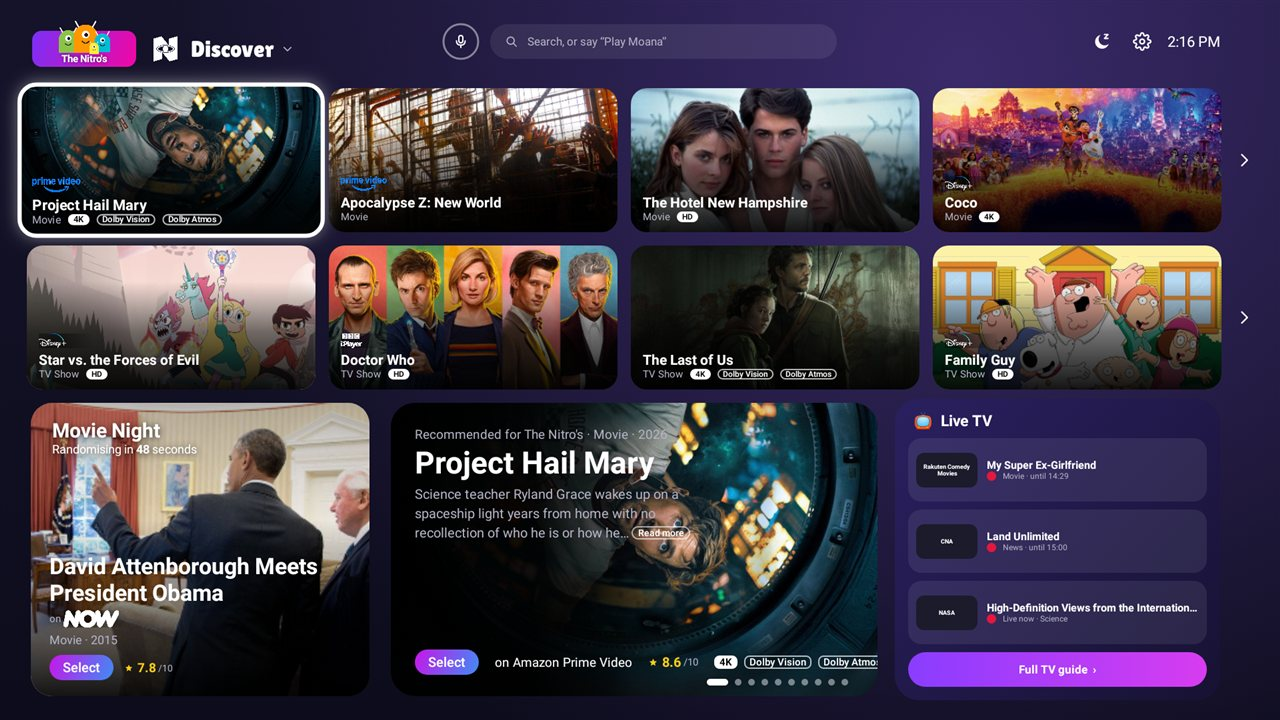
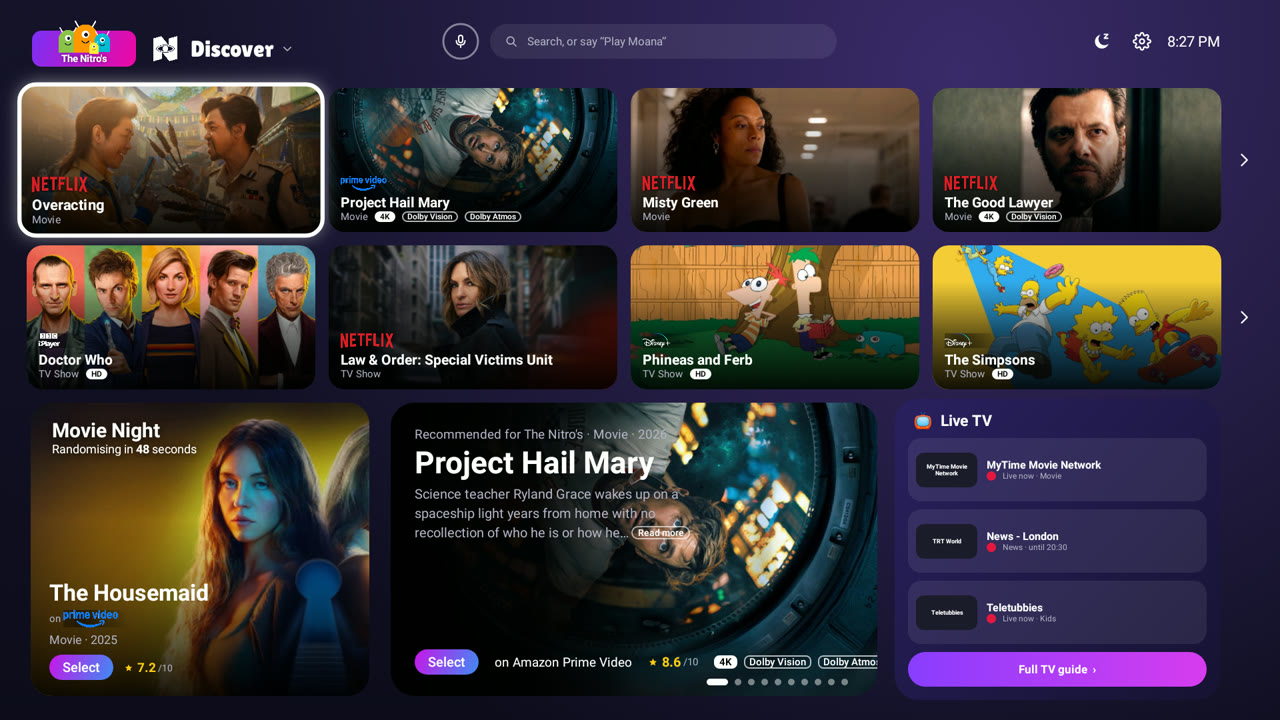
Website: new Discover, Details and Live guide screenshots, wording, remove unused pictures

diff --git a/index.html b/index.html
@@ -242,7 +242,7 @@ footer{background:#040406;border-top:1px solid var(--line);margin-top:120px;font
 <section class="sec how"><span class="lbl">How it works</span><h2 class="h">Up and running in three steps.</h2><div class="flow"><article class="st"><b class="big">01</b><div class="vis v1"><img src="services/netflix.png" alt="" loading="lazy"><img src="services/prime.png" alt="" loading="lazy"><img src="services/disney.png" alt="" loading="lazy"><img src="services/iplayer.png" alt="" loading="lazy"><img src="services/itvx.png" alt="" loading="lazy"><img src="services/now.png" alt="" loading="lazy"><span class="tick">✓</span></div><h3>Pick your services</h3><p>Tell it which ones you pay for. Takes a minute.</p></article><i class="arr" aria-hidden="true"></i><article class="st"><b class="big">02</b><div class="vis v2"><img src="tv-home.jpg" alt="" loading="lazy"></div><h3>Browse in one place</h3><p>Films and shows from all of them, side by side.</p></article><i class="arr" aria-hidden="true"></i><article class="st"><b class="big">03</b><div class="vis v3"><span class="pp">▶ Select</span><small>Opens in Netflix</small></div><h3>Press Play</h3><p>It opens in that service's own app. Nothing else to do.</p></article></div></section>
 <section class="sec" id="features"><span class="lbl">Inside the TV App</span><h2 class="h">Six things your TV does when you let it.</h2><div class="reel" id="reel"><button class="rb prev" type="button" aria-label="Previous">‹</button><div class="track" id="track"><article class="bn"><div class="pic"><img src="tv-idle.jpg" alt="The Idle screen" loading="lazy"></div><div class="cap"><b>01 · Idle screen</b><h3>It never just sits there.</h3><p class="sh">A famous painting or a space picture, with the time, weather and today's plans.</p><p class="lg">When nobody is watching, your TV turns into a calm, useful screen. A famous painting or a space picture fills the display, with the time, the weather, today's plans, bin day (every 2 to 4 weeks) and the family to-do list on top. Scan the QR code with a phone to add a to-do from anywhere in the room.</p></div></article><article class="bn"><div class="pic"><img src="tv-live.jpg" alt="The Live TV guide" loading="lazy"></div><div class="cap"><b>02 · Free channels</b><h3>Live TV, right inside.</h3><p class="sh">Free channels that play full screen inside the app.</p><p class="lg">Free channels play right inside NitroVision, full screen, with no other app to open. The guide shows what is on now and next across news, movies, entertainment, science and music. Pick a provider, mark your favourites and show only those, and see three live channels on Home. Never shown on children's profiles.</p></div></article><article class="bn"><div class="pic"><img src="tv-builder.jpg" alt="Building the family tile" loading="lazy"></div><div class="cap"><b>03 · Family tile</b><h3>Make your family a tile.</h3><p class="sh">Your own tile, with your colours and characters.</p><p class="lg">Type your family name, pick a colour and a style, then add a family of characters from themed packs. It becomes your own tile on Home, so the app feels like it belongs to your house.</p></div></article><article class="bn"><div class="pic"><img src="tv-kids.jpg" alt="Kids Home" loading="lazy"></div><div class="cap"><b>04 · Kids Home</b><h3>A safe Home for the kids.</h3><p class="sh">Their own Home with only U and PG titles.</p><p class="lg">Children's profiles get their own Home, with only titles rated U or PG and rows made for kids. There is no Live TV on a child's profile, so news and films for adults never turn up.</p></div></article><article class="bn"><div class="pic"><img src="tv-details.jpg" alt="A film details page" loading="lazy"></div><div class="cap"><b>05 · Pick a film</b><h3>Pick it. Press Play.</h3><p class="sh">See what it is, then open it in your service's own app.</p><p class="lg">Open any film or show to see what it is: the story, the rating, the trailer and which of your services has it. Press Play and it opens in that service's own app, whether that is Netflix, Disney+, iPlayer or another, so you never hunt through ten apps.</p></div></article><article class="bn"><div class="pic"><img src="phone-ask.png" alt="Adding to-dos from a phone" loading="lazy"></div><div class="cap"><b>06 · No app needed</b><h3>Your phones join in.</h3><p class="sh">Add plans and to-dos from any phone.</p><p class="lg">Scan the QR code on the TV and your phone opens a simple page. Add events and to-dos for the family, with no download and no sign-in. They show up on the Idle screen for everyone.</p></div></article></div><button class="rb next" type="button" aria-label="Next">›</button></div></section>
 <section class="doors">
-<article class="door" id="tv-app"><img class="bg" src="tv-home.jpg" alt=""><span class="n">1 · The App, for your TV</span><h2>TV App<span class="tag">Beta 1.11.0</span></h2><p>A full app for Google TV and Android TV, currently in beta. Browse your services and press Play.</p><p class="uk"><span><b>UK only during the beta.</b> Not in the UK? Skip the Downloader steps: the <a href="#addon">Stremio Add-on</a> works in 8 countries.</span></p><ol class="steps"><li>On your TV, open the free <b>Downloader</b> app. Install it from the Google Play Store if you do not have it.</li><li>Type <b class="cd">6963558</b> and press Go.</li><li>Choose Install, then open NitroVision TV and pick your services.</li></ol><div><a class="btn" href="https://github.com/nitroxbs/nitrovision-website/releases/latest/download/nitrovision-tv.apk">Get the Google TV App</a><span style="margin-left:14px;font-size:13px;opacity:.75">UK only for now</span></div></article>
+<article class="door" id="tv-app"><img class="bg" src="tv-home.jpg" alt=""><span class="n">1 · The App, for your TV</span><h2>TV App<span class="tag">Beta 1.11.0</span></h2><p>A full app for Google TV and Android TV, currently in beta. Browse your services and press Play, pick a theme, see Provider stats and set parental controls.</p><p class="uk"><span><b>UK only during the beta.</b> Not in the UK? Skip the Downloader steps: the <a href="#addon">Stremio Add-on</a> works in 8 countries.</span></p><ol class="steps"><li>On your TV, open the free <b>Downloader</b> app. Install it from the Google Play Store if you do not have it.</li><li>Type <b class="cd">6963558</b> and press Go.</li><li>Choose Install, then open NitroVision TV and pick your services.</li></ol><div><a class="btn" href="https://github.com/nitroxbs/nitrovision-website/releases/latest/download/nitrovision-tv.apk">Get the Google TV App</a><span style="margin-left:14px;font-size:13px;opacity:.75">UK only for now</span></div></article>
 <article class="door" id="addon"><img class="bg" src="tv-details.jpg" alt=""><span class="n">2 · The Add-on, for Stremio</span><h2>Stremio Add-on<span class="tag">v1.21.0</span></h2><p>A separate add-on for the Stremio app (phone, PC, TV and more). Finds where to watch what you pick in Stremio, on the services you already subscribe to, and opens it there in one click. 8 countries.</p><ol class="steps"><li>Press the button below to open the setup page.</li><li>Pick your countries, services and rows.</li><li>Press Install. Stremio opens with NitroVision added.</li></ol><div><a class="btn" href="https://b4c0be0d68c2-nitrovision-addon.baby-beamup.club/configure">Get the Stremio Add-on</a></div></article></section>
 <section class="sec help" id="install-guide"><span class="lbl">Installing the TV App</span><h2 class="h">Not currently in the Google Play Store yet.</h2><p>The TV App is in beta, so it is not on the Google Play Store yet. You install it with a free app called Downloader, which is. It takes about a minute.</p><ul><li><b>Is it safe?</b> Downloader is a well-known app from the Play Store, and the file comes from this site. You can remove NitroVision TV any time: TV Settings, Apps, NitroVision TV, Uninstall.</li><li><b>Your TV may ask you to allow it.</b> Turn on Downloader under Settings, Apps, Security and restrictions, Unknown sources. Turn it off again afterwards if you like.</li><li><b>On your phone right now?</b> Open the download page on your TV by typing 6963558 into Downloader. The code is the same for everyone.</li></ul><div class="qrbox"><div class="qr"><svg version="1.1" xmlns="http://www.w3.org/2000/svg" viewBox="0 0 136 136"  preserveAspectRatio="xMinYMin meet"><rect width="100%" height="100%" fill="white" cx="0" cy="0"/><path d="M2,2l4,0 0,4 -4,0 0,-4z M6,2l4,0 0,4 -4,0 0,-4z M10,2l4,0 0,4 -4,0 0,-4z M14,2l4,0 0,4 -4,0 0,-4z M18,2l4,0 0,4 -4,0 0,-4z M22,2l4,0 0,4 -4,0 0,-4z M26,2l4,0 0,4 -4,0 0,-4z M38,2l4,0 0,4 -4,0 0,-4z M42,2l4,0 0,4 -4,0 0,-4z M50,2l4,0 0,4 -4,0 0,-4z M62,2l4,0 0,4 -4,0 0,-4z M78,2l4,0 0,4 -4,0 0,-4z M94,2l4,0 0,4 -4,0 0,-4z M106,2l4,0 0,4 -4,0 0,-4z M110,2l4,0 0,4 -4,0 0,-4z M114,2l4,0 0,4 -4,0 0,-4z M118,2l4,0 0,4 -4,0 0,-4z M122,2l4,0 0,4 -4,0 0,-4z M126,2l4,0 0,4 -4,0 0,-4z M130,2l4,0 0,4 -4,0 0,-4z M2,6l4,0 0,4 -4,0 0,-4z M26,6l4,0 0,4 -4,0 0,-4z M46,6l4,0 0,4 -4,0 0,-4z M62,6l4,0 0,4 -4,0 0,-4z M70,6l4,0 0,4 -4,0 0,-4z M86,6l4,0 0,4 -4,0 0,-4z M94,6l4,0 0,4 -4,0 0,-4z M98,6l4,0 0,4 -4,0 0,-4z M106,6l4,0 0,4 -4,0 0,-4z M130,6l4,0 0,4 -4,0 0,-4z M2,10l4,0 0,4 -4,0 0,-4z M10,10l4,0 0,4 -4,0 0,-4z M14,10l4,0 0,4 -4,0 0,-4z M18,10l4,0 0,4 -4,0 0,-4z M26,10l4,0 0,4 -4,0 0,-4z M42,10l4,0 0,4 -4,0 0,-4z M58,10l4,0 0,4 -4,0 0,-4z M66,10l4,0 0,4 -4,0 0,-4z M70,10l4,0 0,4 -4,0 0,-4z M90,10l4,0 0,4 -4,0 0,-4z M106,10l4,0 0,4 -4,0 0,-4z M114,10l4,0 0,4 -4,0 0,-4z M118,10l4,0 0,4 -4,0 0,-4z M122,10l4,0 0,4 -4,0 0,-4z M130,10l4,0 0,4 -4,0 0,-4z M2,14l4,0 0,4 -4,0 0,-4z M10,14l4,0 0,4 -4,0 0,-4z M14,14l4,0 0,4 -4,0 0,-4z M18,14l4,0 0,4 -4,0 0,-4z M26,14l4,0 0,4 -4,0 0,-4z M46,14l4,0 0,4 -4,0 0,-4z M54,14l4,0 0,4 -4,0 0,-4z M70,14l4,0 0,4 -4,0 0,-4z M90,14l4,0 0,4 -4,0 0,-4z M98,14l4,0 0,4 -4,0 0,-4z M106,14l4,0 0,4 -4,0 0,-4z M114,14l4,0 0,4 -4,0 0,-4z M118,14l4,0 0,4 -4,0 0,-4z M122,14l4,0 0,4 -4,0 0,-4z M130,14l4,0 0,4 -4,0 0,-4z M2,18l4,0 0,4 -4,0 0,-4z M10,18l4,0 0,4 -4,0 0,-4z M14,18l4,0 0,4 -4,0 0,-4z M18,18l4,0 0,4 -4,0 0,-4z M26,18l4,0 0,4 -4,0 0,-4z M42,18l4,0 0,4 -4,0 0,-4z M46,18l4,0 0,4 -4,0 0,-4z M54,18l4,0 0,4 -4,0 0,-4z M66,18l4,0 0,4 -4,0 0,-4z M78,18l4,0 0,4 -4,0 0,-4z M86,18l4,0 0,4 -4,0 0,-4z M94,18l4,0 0,4 -4,0 0,-4z M106,18l4,0 0,4 -4,0 0,-4z M114,18l4,0 0,4 -4,0 0,-4z M118,18l4,0 0,4 -4,0 0,-4z M122,18l4,0 0,4 -4,0 0,-4z M130,18l4,0 0,4 -4,0 0,-4z M2,22l4,0 0,4 -4,0 0,-4z M26,22l4,0 0,4 -4,0 0,-4z M34,22l4,0 0,4 -4,0 0,-4z M38,22l4,0 0,4 -4,0 0,-4z M42,22l4,0 0,4 -4,0 0,-4z M54,22l4,0 0,4 -4,0 0,-4z M74,22l4,0 0,4 -4,0 0,-4z M82,22l4,0 0,4 -4,0 0,-4z M86,22l4,0 0,4 -4,0 0,-4z M98,22l4,0 0,4 -4,0 0,-4z M106,22l4,0 0,4 -4,0 0,-4z M130,22l4,0 0,4 -4,0 0,-4z M2,26l4,0 0,4 -4,0 0,-4z M6,26l4,0 0,4 -4,0 0,-4z M10,26l4,0 0,4 -4,0 0,-4z M14,26l4,0 0,4 -4,0 0,-4z M18,26l4,0 0,4 -4,0 0,-4z M22,26l4,0 0,4 -4,0 0,-4z M26,26l4,0 0,4 -4,0 0,-4z M34,26l4,0 0,4 -4,0 0,-4z M42,26l4,0 0,4 -4,0 0,-4z M50,26l4,0 0,4 -4,0 0,-4z M58,26l4,0 0,4 -4,0 0,-4z M66,26l4,0 0,4 -4,0 0,-4z M74,26l4,0 0,4 -4,0 0,-4z M82,26l4,0 0,4 -4,0 0,-4z M90,26l4,0 0,4 -4,0 0,-4z M98,26l4,0 0,4 -4,0 0,-4z M106,26l4,0 0,4 -4,0 0,-4z M110,26l4,0 0,4 -4,0 0,-4z M114,26l4,0 0,4 -4,0 0,-4z M118,26l4,0 0,4 -4,0 0,-4z M122,26l4,0 0,4 -4,0 0,-4z M126,26l4,0 0,4 -4,0 0,-4z M130,26l4,0 0,4 -4,0 0,-4z M38,30l4,0 0,4 -4,0 0,-4z M50,30l4,0 0,4 -4,0 0,-4z M70,30l4,0 0,4 -4,0 0,-4z M74,30l4,0 0,4 -4,0 0,-4z M78,30l4,0 0,4 -4,0 0,-4z M82,30l4,0 0,4 -4,0 0,-4z M86,30l4,0 0,4 -4,0 0,-4z M90,30l4,0 0,4 -4,0 0,-4z M94,30l4,0 0,4 -4,0 0,-4z M2,34l4,0 0,4 -4,0 0,-4z M14,34l4,0 0,4 -4,0 0,-4z M22,34l4,0 0,4 -4,0 0,-4z M26,34l4,0 0,4 -4,0 0,-4z M34,34l4,0 0,4 -4,0 0,-4z M54,34l4,0 0,4 -4,0 0,-4z M58,34l4,0 0,4 -4,0 0,-4z M62,34l4,0 0,4 -4,0 0,-4z M66,34l4,0 0,4 -4,0 0,-4z M78,34l4,0 0,4 -4,0 0,-4z M86,34l4,0 0,4 -4,0 0,-4z M98,34l4,0 0,4 -4,0 0,-4z M102,34l4,0 0,4 -4,0 0,-4z M110,34l4,0 0,4 -4,0 0,-4z M2,38l4,0 0,4 -4,0 0,-4z M6,38l4,0 0,4 -4,0 0,-4z M10,38l4,0 0,4 -4,0 0,-4z M22,38l4,0 0,4 -4,0 0,-4z M30,38l4,0 0,4 -4,0 0,-4z M34,38l4,0 0,4 -4,0 0,-4z M50,38l4,0 0,4 -4,0 0,-4z M58,38l4,0 0,4 -4,0 0,-4z M66,38l4,0 0,4 -4,0 0,-4z M82,38l4,0 0,4 -4,0 0,-4z M86,38l4,0 0,4 -4,0 0,-4z M98,38l4,0 0,4 -4,0 0,-4z M102,38l4,0 0,4 -4,0 0,-4z M106,38l4,0 0,4 -4,0 0,-4z M110,38l4,0 0,4 -4,0 0,-4z M126,38l4,0 0,4 -4,0 0,-4z M130,38l4,0 0,4 -4,0 0,-4z M6,42l4,0 0,4 -4,0 0,-4z M22,42l4,0 0,4 -4,0 0,-4z M26,42l4,0 0,4 -4,0 0,-4z M30,42l4,0 0,4 -4,0 0,-4z M34,42l4,0 0,4 -4,0 0,-4z M38,42l4,0 0,4 -4,0 0,-4z M50,42l4,0 0,4 -4,0 0,-4z M70,42l4,0 0,4 -4,0 0,-4z M78,42l4,0 0,4 -4,0 0,-4z M82,42l4,0 0,4 -4,0 0,-4z M90,42l4,0 0,4 -4,0 0,-4z M98,42l4,0 0,4 -4,0 0,-4z M110,42l4,0 0,4 -4,0 0,-4z M114,42l4,0 0,4 -4,0 0,-4z M122,42l4,0 0,4 -4,0 0,-4z M130,42l4,0 0,4 -4,0 0,-4z M2,46l4,0 0,4 -4,0 0,-4z M6,46l4,0 0,4 -4,0 0,-4z M22,46l4,0 0,4 -4,0 0,-4z M42,46l4,0 0,4 -4,0 0,-4z M50,46l4,0 0,4 -4,0 0,-4z M58,46l4,0 0,4 -4,0 0,-4z M66,46l4,0 0,4 -4,0 0,-4z M70,46l4,0 0,4 -4,0 0,-4z M78,46l4,0 0,4 -4,0 0,-4z M86,46l4,0 0,4 -4,0 0,-4z M90,46l4,0 0,4 -4,0 0,-4z M94,46l4,0 0,4 -4,0 0,-4z M106,46l4,0 0,4 -4,0 0,-4z M114,46l4,0 0,4 -4,0 0,-4z M118,46l4,0 0,4 -4,0 0,-4z M126,46l4,0 0,4 -4,0 0,-4z M2,50l4,0 0,4 -4,0 0,-4z M6,50l4,0 0,4 -4,0 0,-4z M10,50l4,0 0,4 -4,0 0,-4z M22,50l4,0 0,4 -4,0 0,-4z M26,50l4,0 0,4 -4,0 0,-4z M30,50l4,0 0,4 -4,0 0,-4z M34,50l4,0 0,4 -4,0 0,-4z M62,50l4,0 0,4 -4,0 0,-4z M86,50l4,0 0,4 -4,0 0,-4z M90,50l4,0 0,4 -4,0 0,-4z M98,50l4,0 0,4 -4,0 0,-4z M102,50l4,0 0,4 -4,0 0,-4z M106,50l4,0 0,4 -4,0 0,-4z M118,50l4,0 0,4 -4,0 0,-4z M126,50l4,0 0,4 -4,0 0,-4z M130,50l4,0 0,4 -4,0 0,-4z M2,54l4,0 0,4 -4,0 0,-4z M14,54l4,0 0,4 -4,0 0,-4z M18,54l4,0 0,4 -4,0 0,-4z M22,54l4,0 0,4 -4,0 0,-4z M30,54l4,0 0,4 -4,0 0,-4z M38,54l4,0 0,4 -4,0 0,-4z M62,54l4,0 0,4 -4,0 0,-4z M66,54l4,0 0,4 -4,0 0,-4z M70,54l4,0 0,4 -4,0 0,-4z M86,54l4,0 0,4 -4,0 0,-4z M90,54l4,0 0,4 -4,0 0,-4z M98,54l4,0 0,4 -4,0 0,-4z M102,54l4,0 0,4 -4,0 0,-4z M106,54l4,0 0,4 -4,0 0,-4z M110,54l4,0 0,4 -4,0 0,-4z M114,54l4,0 0,4 -4,0 0,-4z M118,54l4,0 0,4 -4,0 0,-4z M122,54l4,0 0,4 -4,0 0,-4z M126,54l4,0 0,4 -4,0 0,-4z M130,54l4,0 0,4 -4,0 0,-4z M14,58l4,0 0,4 -4,0 0,-4z M22,58l4,0 0,4 -4,0 0,-4z M26,58l4,0 0,4 -4,0 0,-4z M42,58l4,0 0,4 -4,0 0,-4z M46,58l4,0 0,4 -4,0 0,-4z M54,58l4,0 0,4 -4,0 0,-4z M58,58l4,0 0,4 -4,0 0,-4z M74,58l4,0 0,4 -4,0 0,-4z M82,58l4,0 0,4 -4,0 0,-4z M86,58l4,0 0,4 -4,0 0,-4z M90,58l4,0 0,4 -4,0 0,-4z M94,58l4,0 0,4 -4,0 0,-4z M102,58l4,0 0,4 -4,0 0,-4z M106,58l4,0 0,4 -4,0 0,-4z M122,58l4,0 0,4 -4,0 0,-4z M126,58l4,0 0,4 -4,0 0,-4z M2,62l4,0 0,4 -4,0 0,-4z M14,62l4,0 0,4 -4,0 0,-4z M22,62l4,0 0,4 -4,0 0,-4z M30,62l4,0 0,4 -4,0 0,-4z M34,62l4,0 0,4 -4,0 0,-4z M42,62l4,0 0,4 -4,0 0,-4z M46,62l4,0 0,4 -4,0 0,-4z M58,62l4,0 0,4 -4,0 0,-4z M62,62l4,0 0,4 -4,0 0,-4z M70,62l4,0 0,4 -4,0 0,-4z M78,62l4,0 0,4 -4,0 0,-4z M86,62l4,0 0,4 -4,0 0,-4z M106,62l4,0 0,4 -4,0 0,-4z M114,62l4,0 0,4 -4,0 0,-4z M126,62l4,0 0,4 -4,0 0,-4z M6,66l4,0 0,4 -4,0 0,-4z M14,66l4,0 0,4 -4,0 0,-4z M18,66l4,0 0,4 -4,0 0,-4z M26,66l4,0 0,4 -4,0 0,-4z M30,66l4,0 0,4 -4,0 0,-4z M34,66l4,0 0,4 -4,0 0,-4z M42,66l4,0 0,4 -4,0 0,-4z M50,66l4,0 0,4 -4,0 0,-4z M54,66l4,0 0,4 -4,0 0,-4z M70,66l4,0 0,4 -4,0 0,-4z M74,66l4,0 0,4 -4,0 0,-4z M78,66l4,0 0,4 -4,0 0,-4z M86,66l4,0 0,4 -4,0 0,-4z M90,66l4,0 0,4 -4,0 0,-4z M106,66l4,0 0,4 -4,0 0,-4z M114,66l4,0 0,4 -4,0 0,-4z M118,66l4,0 0,4 -4,0 0,-4z M126,66l4,0 0,4 -4,0 0,-4z M6,70l4,0 0,4 -4,0 0,-4z M10,70l4,0 0,4 -4,0 0,-4z M18,70l4,0 0,4 -4,0 0,-4z M22,70l4,0 0,4 -4,0 0,-4z M34,70l4,0 0,4 -4,0 0,-4z M42,70l4,0 0,4 -4,0 0,-4z M58,70l4,0 0,4 -4,0 0,-4z M66,70l4,0 0,4 -4,0 0,-4z M90,70l4,0 0,4 -4,0 0,-4z M94,70l4,0 0,4 -4,0 0,-4z M98,70l4,0 0,4 -4,0 0,-4z M102,70l4,0 0,4 -4,0 0,-4z M110,70l4,0 0,4 -4,0 0,-4z M118,70l4,0 0,4 -4,0 0,-4z M2,74l4,0 0,4 -4,0 0,-4z M6,74l4,0 0,4 -4,0 0,-4z M10,74l4,0 0,4 -4,0 0,-4z M26,74l4,0 0,4 -4,0 0,-4z M34,74l4,0 0,4 -4,0 0,-4z M38,74l4,0 0,4 -4,0 0,-4z M42,74l4,0 0,4 -4,0 0,-4z M58,74l4,0 0,4 -4,0 0,-4z M74,74l4,0 0,4 -4,0 0,-4z M86,74l4,0 0,4 -4,0 0,-4z M98,74l4,0 0,4 -4,0 0,-4z M102,74l4,0 0,4 -4,0 0,-4z M106,74l4,0 0,4 -4,0 0,-4z M122,74l4,0 0,4 -4,0 0,-4z M126,74l4,0 0,4 -4,0 0,-4z M130,74l4,0 0,4 -4,0 0,-4z M10,78l4,0 0,4 -4,0 0,-4z M18,78l4,0 0,4 -4,0 0,-4z M22,78l4,0 0,4 -4,0 0,-4z M38,78l4,0 0,4 -4,0 0,-4z M58,78l4,0 0,4 -4,0 0,-4z M70,78l4,0 0,4 -4,0 0,-4z M74,78l4,0 0,4 -4,0 0,-4z M86,78l4,0 0,4 -4,0 0,-4z M94,78l4,0 0,4 -4,0 0,-4z M98,78l4,0 0,4 -4,0 0,-4z M102,78l4,0 0,4 -4,0 0,-4z M106,78l4,0 0,4 -4,0 0,-4z M110,78l4,0 0,4 -4,0 0,-4z M126,78l4,0 0,4 -4,0 0,-4z M130,78l4,0 0,4 -4,0 0,-4z M10,82l4,0 0,4 -4,0 0,-4z M18,82l4,0 0,4 -4,0 0,-4z M26,82l4,0 0,4 -4,0 0,-4z M34,82l4,0 0,4 -4,0 0,-4z M38,82l4,0 0,4 -4,0 0,-4z M42,82l4,0 0,4 -4,0 0,-4z M50,82l4,0 0,4 -4,0 0,-4z M58,82l4,0 0,4 -4,0 0,-4z M62,82l4,0 0,4 -4,0 0,-4z M66,82l4,0 0,4 -4,0 0,-4z M70,82l4,0 0,4 -4,0 0,-4z M74,82l4,0 0,4 -4,0 0,-4z M78,82l4,0 0,4 -4,0 0,-4z M90,82l4,0 0,4 -4,0 0,-4z M94,82l4,0 0,4 -4,0 0,-4z M102,82l4,0 0,4 -4,0 0,-4z M126,82l4,0 0,4 -4,0 0,-4z M130,82l4,0 0,4 -4,0 0,-4z M18,86l4,0 0,4 -4,0 0,-4z M22,86l4,0 0,4 -4,0 0,-4z M34,86l4,0 0,4 -4,0 0,-4z M38,86l4,0 0,4 -4,0 0,-4z M42,86l4,0 0,4 -4,0 0,-4z M46,86l4,0 0,4 -4,0 0,-4z M50,86l4,0 0,4 -4,0 0,-4z M54,86l4,0 0,4 -4,0 0,-4z M58,86l4,0 0,4 -4,0 0,-4z M62,86l4,0 0,4 -4,0 0,-4z M66,86l4,0 0,4 -4,0 0,-4z M74,86l4,0 0,4 -4,0 0,-4z M78,86l4,0 0,4 -4,0 0,-4z M82,86l4,0 0,4 -4,0 0,-4z M86,86l4,0 0,4 -4,0 0,-4z M98,86l4,0 0,4 -4,0 0,-4z M102,86l4,0 0,4 -4,0 0,-4z M106,86l4,0 0,4 -4,0 0,-4z M118,86l4,0 0,4 -4,0 0,-4z M126,86l4,0 0,4 -4,0 0,-4z M130,86l4,0 0,4 -4,0 0,-4z M2,90l4,0 0,4 -4,0 0,-4z M6,90l4,0 0,4 -4,0 0,-4z M14,90l4,0 0,4 -4,0 0,-4z M22,90l4,0 0,4 -4,0 0,-4z M26,90l4,0 0,4 -4,0 0,-4z M38,90l4,0 0,4 -4,0 0,-4z M50,90l4,0 0,4 -4,0 0,-4z M62,90l4,0 0,4 -4,0 0,-4z M70,90l4,0 0,4 -4,0 0,-4z M82,90l4,0 0,4 -4,0 0,-4z M86,90l4,0 0,4 -4,0 0,-4z M98,90l4,0 0,4 -4,0 0,-4z M110,90l4,0 0,4 -4,0 0,-4z M114,90l4,0 0,4 -4,0 0,-4z M118,90l4,0 0,4 -4,0 0,-4z M130,90l4,0 0,4 -4,0 0,-4z M6,94l4,0 0,4 -4,0 0,-4z M10,94l4,0 0,4 -4,0 0,-4z M18,94l4,0 0,4 -4,0 0,-4z M22,94l4,0 0,4 -4,0 0,-4z M30,94l4,0 0,4 -4,0 0,-4z M42,94l4,0 0,4 -4,0 0,-4z M46,94l4,0 0,4 -4,0 0,-4z M58,94l4,0 0,4 -4,0 0,-4z M66,94l4,0 0,4 -4,0 0,-4z M86,94l4,0 0,4 -4,0 0,-4z M90,94l4,0 0,4 -4,0 0,-4z M94,94l4,0 0,4 -4,0 0,-4z M102,94l4,0 0,4 -4,0 0,-4z M114,94l4,0 0,4 -4,0 0,-4z M118,94l4,0 0,4 -4,0 0,-4z M2,98l4,0 0,4 -4,0 0,-4z M14,98l4,0 0,4 -4,0 0,-4z M18,98l4,0 0,4 -4,0 0,-4z M26,98l4,0 0,4 -4,0 0,-4z M30,98l4,0 0,4 -4,0 0,-4z M34,98l4,0 0,4 -4,0 0,-4z M38,98l4,0 0,4 -4,0 0,-4z M46,98l4,0 0,4 -4,0 0,-4z M54,98l4,0 0,4 -4,0 0,-4z M62,98l4,0 0,4 -4,0 0,-4z M66,98l4,0 0,4 -4,0 0,-4z M70,98l4,0 0,4 -4,0 0,-4z M78,98l4,0 0,4 -4,0 0,-4z M82,98l4,0 0,4 -4,0 0,-4z M86,98l4,0 0,4 -4,0 0,-4z M90,98l4,0 0,4 -4,0 0,-4z M98,98l4,0 0,4 -4,0 0,-4z M102,98l4,0 0,4 -4,0 0,-4z M106,98l4,0 0,4 -4,0 0,-4z M110,98l4,0 0,4 -4,0 0,-4z M114,98l4,0 0,4 -4,0 0,-4z M126,98l4,0 0,4 -4,0 0,-4z M34,102l4,0 0,4 -4,0 0,-4z M50,102l4,0 0,4 -4,0 0,-4z M66,102l4,0 0,4 -4,0 0,-4z M78,102l4,0 0,4 -4,0 0,-4z M82,102l4,0 0,4 -4,0 0,-4z M90,102l4,0 0,4 -4,0 0,-4z M98,102l4,0 0,4 -4,0 0,-4z M114,102l4,0 0,4 -4,0 0,-4z M118,102l4,0 0,4 -4,0 0,-4z M130,102l4,0 0,4 -4,0 0,-4z M2,106l4,0 0,4 -4,0 0,-4z M6,106l4,0 0,4 -4,0 0,-4z M10,106l4,0 0,4 -4,0 0,-4z M14,106l4,0 0,4 -4,0 0,-4z M18,106l4,0 0,4 -4,0 0,-4z M22,106l4,0 0,4 -4,0 0,-4z M26,106l4,0 0,4 -4,0 0,-4z M42,106l4,0 0,4 -4,0 0,-4z M50,106l4,0 0,4 -4,0 0,-4z M58,106l4,0 0,4 -4,0 0,-4z M82,106l4,0 0,4 -4,0 0,-4z M86,106l4,0 0,4 -4,0 0,-4z M98,106l4,0 0,4 -4,0 0,-4z M106,106l4,0 0,4 -4,0 0,-4z M114,106l4,0 0,4 -4,0 0,-4z M118,106l4,0 0,4 -4,0 0,-4z M122,106l4,0 0,4 -4,0 0,-4z M126,106l4,0 0,4 -4,0 0,-4z M2,110l4,0 0,4 -4,0 0,-4z M26,110l4,0 0,4 -4,0 0,-4z M34,110l4,0 0,4 -4,0 0,-4z M42,110l4,0 0,4 -4,0 0,-4z M46,110l4,0 0,4 -4,0 0,-4z M50,110l4,0 0,4 -4,0 0,-4z M58,110l4,0 0,4 -4,0 0,-4z M66,110l4,0 0,4 -4,0 0,-4z M82,110l4,0 0,4 -4,0 0,-4z M98,110l4,0 0,4 -4,0 0,-4z M114,110l4,0 0,4 -4,0 0,-4z M126,110l4,0 0,4 -4,0 0,-4z M130,110l4,0 0,4 -4,0 0,-4z M2,114l4,0 0,4 -4,0 0,-4z M10,114l4,0 0,4 -4,0 0,-4z M14,114l4,0 0,4 -4,0 0,-4z M18,114l4,0 0,4 -4,0 0,-4z M26,114l4,0 0,4 -4,0 0,-4z M38,114l4,0 0,4 -4,0 0,-4z M46,114l4,0 0,4 -4,0 0,-4z M54,114l4,0 0,4 -4,0 0,-4z M62,114l4,0 0,4 -4,0 0,-4z M66,114l4,0 0,4 -4,0 0,-4z M78,114l4,0 0,4 -4,0 0,-4z M90,114l4,0 0,4 -4,0 0,-4z M98,114l4,0 0,4 -4,0 0,-4z M102,114l4,0 0,4 -4,0 0,-4z M106,114l4,0 0,4 -4,0 0,-4z M110,114l4,0 0,4 -4,0 0,-4z M114,114l4,0 0,4 -4,0 0,-4z M118,114l4,0 0,4 -4,0 0,-4z M126,114l4,0 0,4 -4,0 0,-4z M130,114l4,0 0,4 -4,0 0,-4z M2,118l4,0 0,4 -4,0 0,-4z M10,118l4,0 0,4 -4,0 0,-4z M14,118l4,0 0,4 -4,0 0,-4z M18,118l4,0 0,4 -4,0 0,-4z M26,118l4,0 0,4 -4,0 0,-4z M34,118l4,0 0,4 -4,0 0,-4z M38,118l4,0 0,4 -4,0 0,-4z M46,118l4,0 0,4 -4,0 0,-4z M54,118l4,0 0,4 -4,0 0,-4z M58,118l4,0 0,4 -4,0 0,-4z M62,118l4,0 0,4 -4,0 0,-4z M70,118l4,0 0,4 -4,0 0,-4z M78,118l4,0 0,4 -4,0 0,-4z M82,118l4,0 0,4 -4,0 0,-4z M94,118l4,0 0,4 -4,0 0,-4z M106,118l4,0 0,4 -4,0 0,-4z M114,118l4,0 0,4 -4,0 0,-4z M122,118l4,0 0,4 -4,0 0,-4z M126,118l4,0 0,4 -4,0 0,-4z M2,122l4,0 0,4 -4,0 0,-4z M10,122l4,0 0,4 -4,0 0,-4z M14,122l4,0 0,4 -4,0 0,-4z M18,122l4,0 0,4 -4,0 0,-4z M26,122l4,0 0,4 -4,0 0,-4z M54,122l4,0 0,4 -4,0 0,-4z M74,122l4,0 0,4 -4,0 0,-4z M86,122l4,0 0,4 -4,0 0,-4z M114,122l4,0 0,4 -4,0 0,-4z M118,122l4,0 0,4 -4,0 0,-4z M122,122l4,0 0,4 -4,0 0,-4z M130,122l4,0 0,4 -4,0 0,-4z M2,126l4,0 0,4 -4,0 0,-4z M26,126l4,0 0,4 -4,0 0,-4z M54,126l4,0 0,4 -4,0 0,-4z M62,126l4,0 0,4 -4,0 0,-4z M66,126l4,0 0,4 -4,0 0,-4z M70,126l4,0 0,4 -4,0 0,-4z M74,126l4,0 0,4 -4,0 0,-4z M86,126l4,0 0,4 -4,0 0,-4z M90,126l4,0 0,4 -4,0 0,-4z M94,126l4,0 0,4 -4,0 0,-4z M98,126l4,0 0,4 -4,0 0,-4z M102,126l4,0 0,4 -4,0 0,-4z M2,130l4,0 0,4 -4,0 0,-4z M6,130l4,0 0,4 -4,0 0,-4z M10,130l4,0 0,4 -4,0 0,-4z M14,130l4,0 0,4 -4,0 0,-4z M18,130l4,0 0,4 -4,0 0,-4z M22,130l4,0 0,4 -4,0 0,-4z M26,130l4,0 0,4 -4,0 0,-4z M34,130l4,0 0,4 -4,0 0,-4z M38,130l4,0 0,4 -4,0 0,-4z M46,130l4,0 0,4 -4,0 0,-4z M50,130l4,0 0,4 -4,0 0,-4z M54,130l4,0 0,4 -4,0 0,-4z M66,130l4,0 0,4 -4,0 0,-4z M86,130l4,0 0,4 -4,0 0,-4z M98,130l4,0 0,4 -4,0 0,-4z M102,130l4,0 0,4 -4,0 0,-4z M114,130l4,0 0,4 -4,0 0,-4z M118,130l4,0 0,4 -4,0 0,-4z M126,130l4,0 0,4 -4,0 0,-4z " stroke="transparent" fill="black"/></svg></div><div><b>On your computer? Take this page to your phone.</b><p>Scan the code with your phone camera, or <a href="mailto:?subject=NitroVision&body=Get%20NitroVision%20for%20your%20TV%3A%20https%3A%2F%2Fnitroxbs.github.io%2Fnitrovision-website%2F">email yourself the link</a> (this opens your own email app; nothing is sent to us).</p></div></div></section><section class="sec tut"><span class="lbl">Step by step</span><h2 class="h">Never done this before? Start here.</h2><p class="tutp">Seven small steps, about five minutes. You do not need any technical knowledge and you do not need to change any hidden settings.</p><ol class="tutl"><li><span class="tn">1</span><div><h3>Open the app store on your TV</h3><p>On the Home screen, choose <b>Apps</b>, then <b>Search for apps</b> (the magnifying glass). Prefer talking? Hold the microphone button on your remote and say "Downloader".</p></div></li><li><span class="tn">2</span><div><h3>Find Downloader</h3><p>Type <b>Downloader</b>. Pick the orange app with a down-arrow icon. It is free and made by AFTVnews.</p></div></li><li><span class="tn">3</span><div><h3>Install it</h3><p>Choose <b>Install</b>, wait a few seconds, then choose <b>Open</b>. If Downloader asks to access your files, choose <b>Allow</b>.</p></div></li><li><span class="tn">4</span><div><h3>Type the code</h3><p>In Downloader, click the box on the right side of the screen (it says "http://") and type <b>6963558</b>. Then choose <b>Go</b>. The code is the same for everyone.</p></div></li><li><span class="tn">5</span><div><h3>Let Downloader install apps</h3><p>Wait for the download to finish. If your TV says it is not allowed to install apps from this source, choose <b>Settings</b>, switch <b>Downloader</b> on, then press Back on your remote. This is a normal safety check, and you do not need Developer options.</p></div></li><li><span class="tn">6</span><div><h3>Choose Install</h3><p>Choose <b>Install</b>, then <b>Open</b>. If Downloader offers to delete the file afterwards, choose <b>Delete</b>: you no longer need it.</p></div></li><li><span class="tn">7</span><div><h3>Pick your services</h3><p>NitroVision TV opens. Choose the streaming services you already pay for. That is it. To remove the app any time: TV Settings, Apps, NitroVision TV, Uninstall.</p></div></li></ol><p class="tutn">Stuck? Your remote's <b>Back</b> button always takes you one step back, and nothing here can break your TV.</p></section>
 <section class="sec works"><span class="lbl">The TV App works on</span><h2 class="h">Google TV and Android TV.</h2><div class="wg"><div><h3>Google TV</h3><p>Chromecast with Google TV, and many newer TCL, Sony, Hisense and Philips TVs.</p></div><div><h3>Android TV</h3><p>NVIDIA Shield TV, and many older TCL, Sony, Hisense and Philips TVs.</p></div><div class="no"><h3>Not supported</h3><p>Samsung (Tizen), LG (webOS), Roku and Apple TV use other systems.</p></div></div><p class="note">Not sure? On your TV open Settings, System, About: it says Google TV or Android TV. Tested on Chromecast with Google TV; other models should work but are not all tested. On a Fire TV or another device, use the Stremio Add-on.</p></section>
